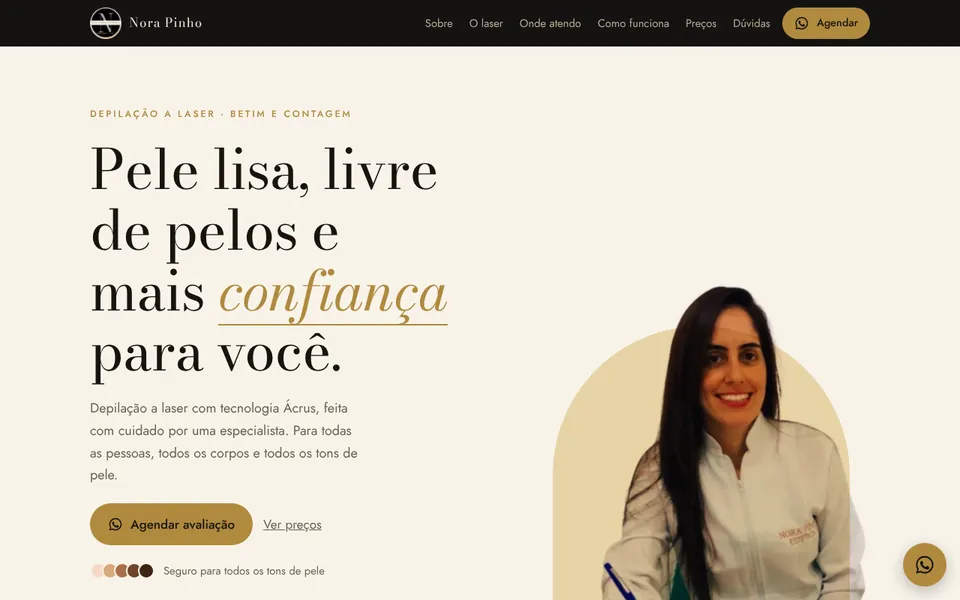
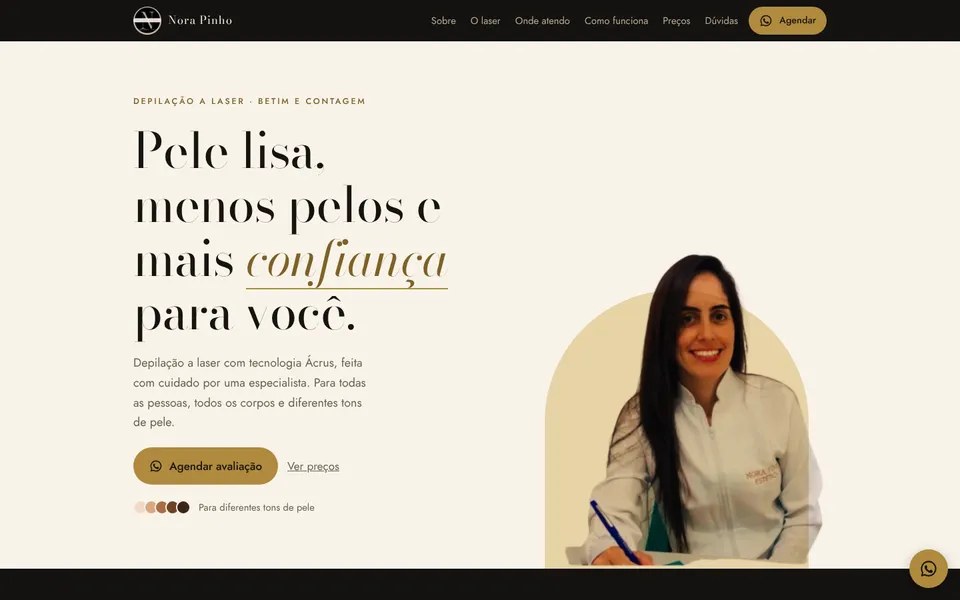
Portfólio com os 4 sites no ar: GlassMaster, Maja Kids, Atual e Nora
Prints novos da GlassMaster, Atual e Nora; grade em 2 colunas.

Claude-Session: https://claude.ai/code/session_01PCE9RzZ8ZGvAPCZpKDMrhL

Changed region(s): [[0.0, 0.15, 1.0, 1.0], [0.0, 0.0, 1.0, 0.09]]

diff --git a/index.html b/index.html
@@ -145,7 +145,7 @@ nav a:hover { opacity: 1; color: var(--broto) }
 @media (max-width: 900px) { .plans { grid-template-columns: 1fr } }
 
 /* Portfólio */
-.cases { display: grid; grid-template-columns: repeat(3, 1fr); gap: 24px }
+.cases { display: grid; grid-template-columns: repeat(2, 1fr); gap: 32px 24px }
 @media (max-width: 900px) { .cases { grid-template-columns: repeat(2, 1fr) } }
 .case { text-decoration: none; display: grid; gap: 14px; align-content: start }
 .case-frame { aspect-ratio: 16 / 10; max-width: 100%; border: 3px solid var(--floresta); border-radius: 18px; background: var(--soft); display: grid; grid-template-rows: auto 1fr; overflow: hidden }
@@ -398,23 +398,29 @@ footer .wrap { padding-block: 26px; display: flex; flex-wrap: wrap; justify-cont
         <h2><span class="pt">Primeiros projetos</span><span class="en">First projects</span></h2>
       </div>
       <div class="cases">
-        <!-- Trocar o bloco .case-frame por um print do site e o href pelo endereço real -->
+        <a class="case" href="https://glassmaster.pages.dev" target="_blank" rel="noopener">
+          <div class="case-frame"><div class="browser-top"><i></i><i></i><i></i></div><img src="portfolio/glassmaster.webp" alt="Página inicial do site da GlassMaster Cleaning, com uma casa de vidro e piscina e a frase Clean glass. Clear results." width="960" height="600" loading="lazy"></div>
+          <h3>GlassMaster Cleaning</h3>
+          <p><span class="pt">Limpeza de vidros na Flórida (EUA) · site em inglês com orçamento guiado por serviço, enviado por SMS ou WhatsApp</span><span class="en">Window cleaning in Florida · step-by-step estimate for each service, sent by text or WhatsApp</span></p>
+          <span class="case-link"><span class="pt">Ver site →</span><span class="en">Visit site →</span></span>
+        </a>
         <a class="case" href="https://maja-kids.pages.dev" target="_blank" rel="noopener">
           <div class="case-frame"><div class="browser-top"><i></i><i></i><i></i></div><img src="portfolio/maja-kids.webp" alt="Página inicial do site da Maja Kids, com um castelo inflável e o botão Monte sua festa" width="960" height="600" loading="lazy"></div>
           <h3>Maja Kids</h3>
           <p><span class="pt">Locação de brinquedos · catálogo animado e festa montada direto no WhatsApp</span><span class="en">Party rentals · animated catalog and party booked straight on WhatsApp</span></p>
           <span class="case-link"><span class="pt">Ver site →</span><span class="en">Visit site →</span></span>
         </a>
+        <a class="case" href="https://atual-ensino.pages.dev" target="_blank" rel="noopener">
+          <div class="case-frame"><div class="browser-top"><i></i><i></i><i></i></div><img src="portfolio/atual-ensino.webp" alt="Página inicial do site do Atual Sistema de Ensino, em estilo caderno amarelo e preto, com a frase Educação que transforma" width="960" height="600" loading="lazy"></div>
+          <h3>Atual Sistema de Ensino</h3>
+          <p><span class="pt">Escola de Ensino Médio · visual de caderno, mapa das cidades da região e perguntas que viram mensagem no WhatsApp</span><span class="en">High school · notebook-style design, regional map and a quick quiz that becomes a WhatsApp message</span></p>
+          <span class="case-link"><span class="pt">Ver site →</span><span class="en">Visit site →</span></span>
+        </a>
         <a class="case" href="https://nora-pinho-estetica.pages.dev" target="_blank" rel="noopener">
-          <div class="case-frame"><div class="browser-top"><i></i><i></i><i></i></div><img src="portfolio/nora-pinho.webp" alt="Página inicial do site da Nora Pinho Estética, com a frase Pele lisa, livre de pelos e mais confiança para você" width="960" height="600" loading="lazy"></div>
+          <div class="case-frame"><div class="browser-top"><i></i><i></i><i></i></div><img src="portfolio/nora-pinho.webp" alt="Página inicial do site da Nora Pinho Estética, com a foto da Nora e a frase Pele lisa, menos pelos e mais confiança para você" width="960" height="600" loading="lazy"></div>
           <h3>Nora Pinho Estética</h3>
           <p><span class="pt">Depilação a laser · mapa do corpo para escolher as áreas e agendar pelo WhatsApp</span><span class="en">Laser hair removal · body map to pick areas and book on WhatsApp</span></p>
           <span class="case-link"><span class="pt">Ver site →</span><span class="en">Visit site →</span></span>
-        </a>
-        <a class="case" href="#portfolio">
-          <div class="case-frame"><div class="browser-top"><i></i><i></i><i></i></div><span>Glass Master</span></div>
-          <h3>Glass Master</h3>
-          <p><span class="pt">Site em produção · em breve no ar</span><span class="en">Website in progress · launching soon</span></p>
         </a>
       </div>
     </div>
